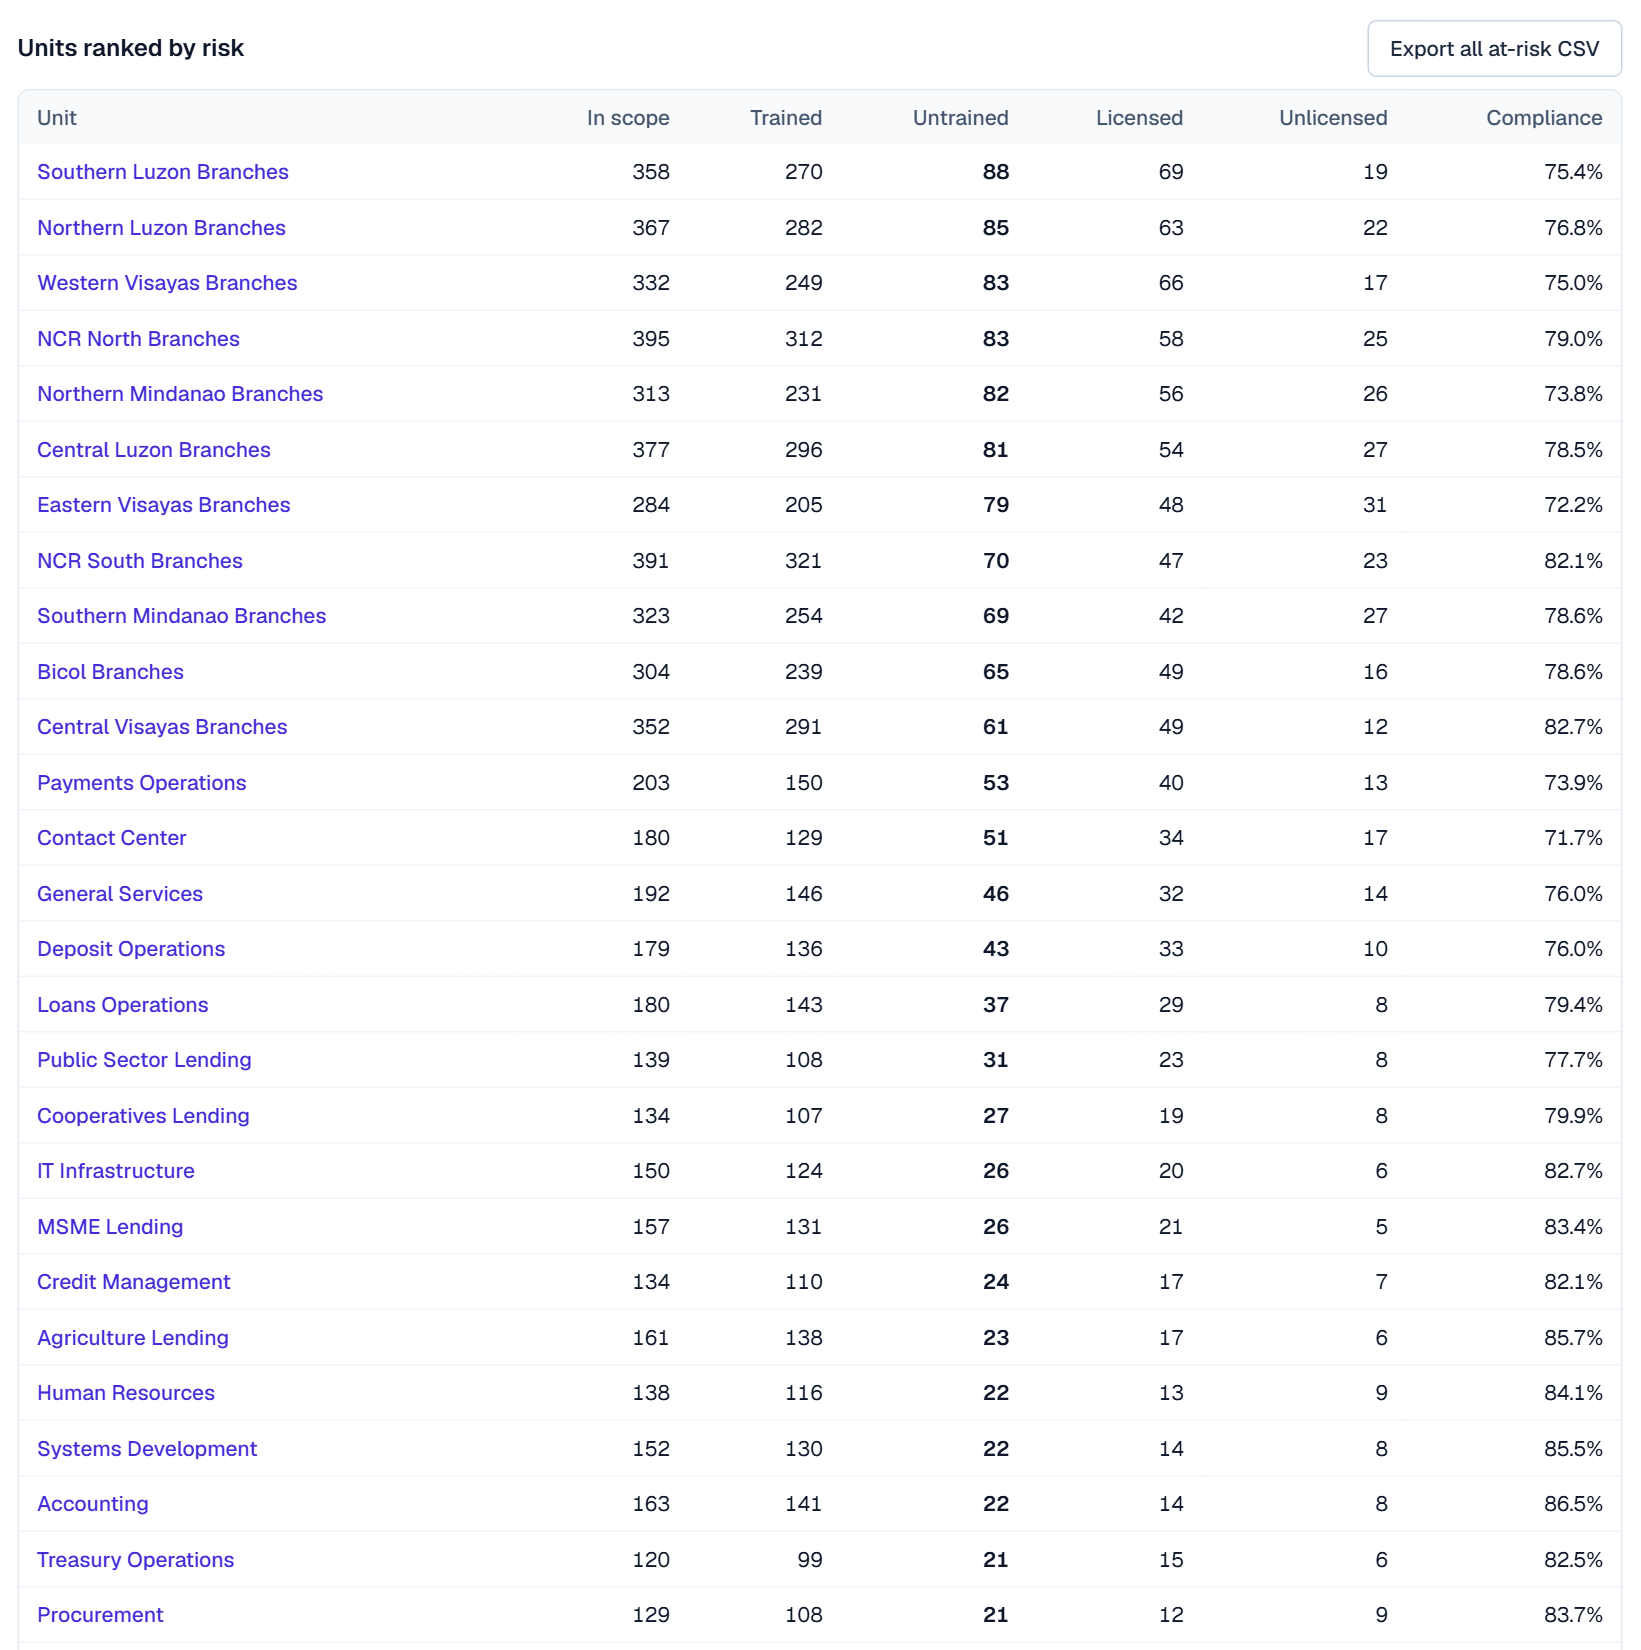
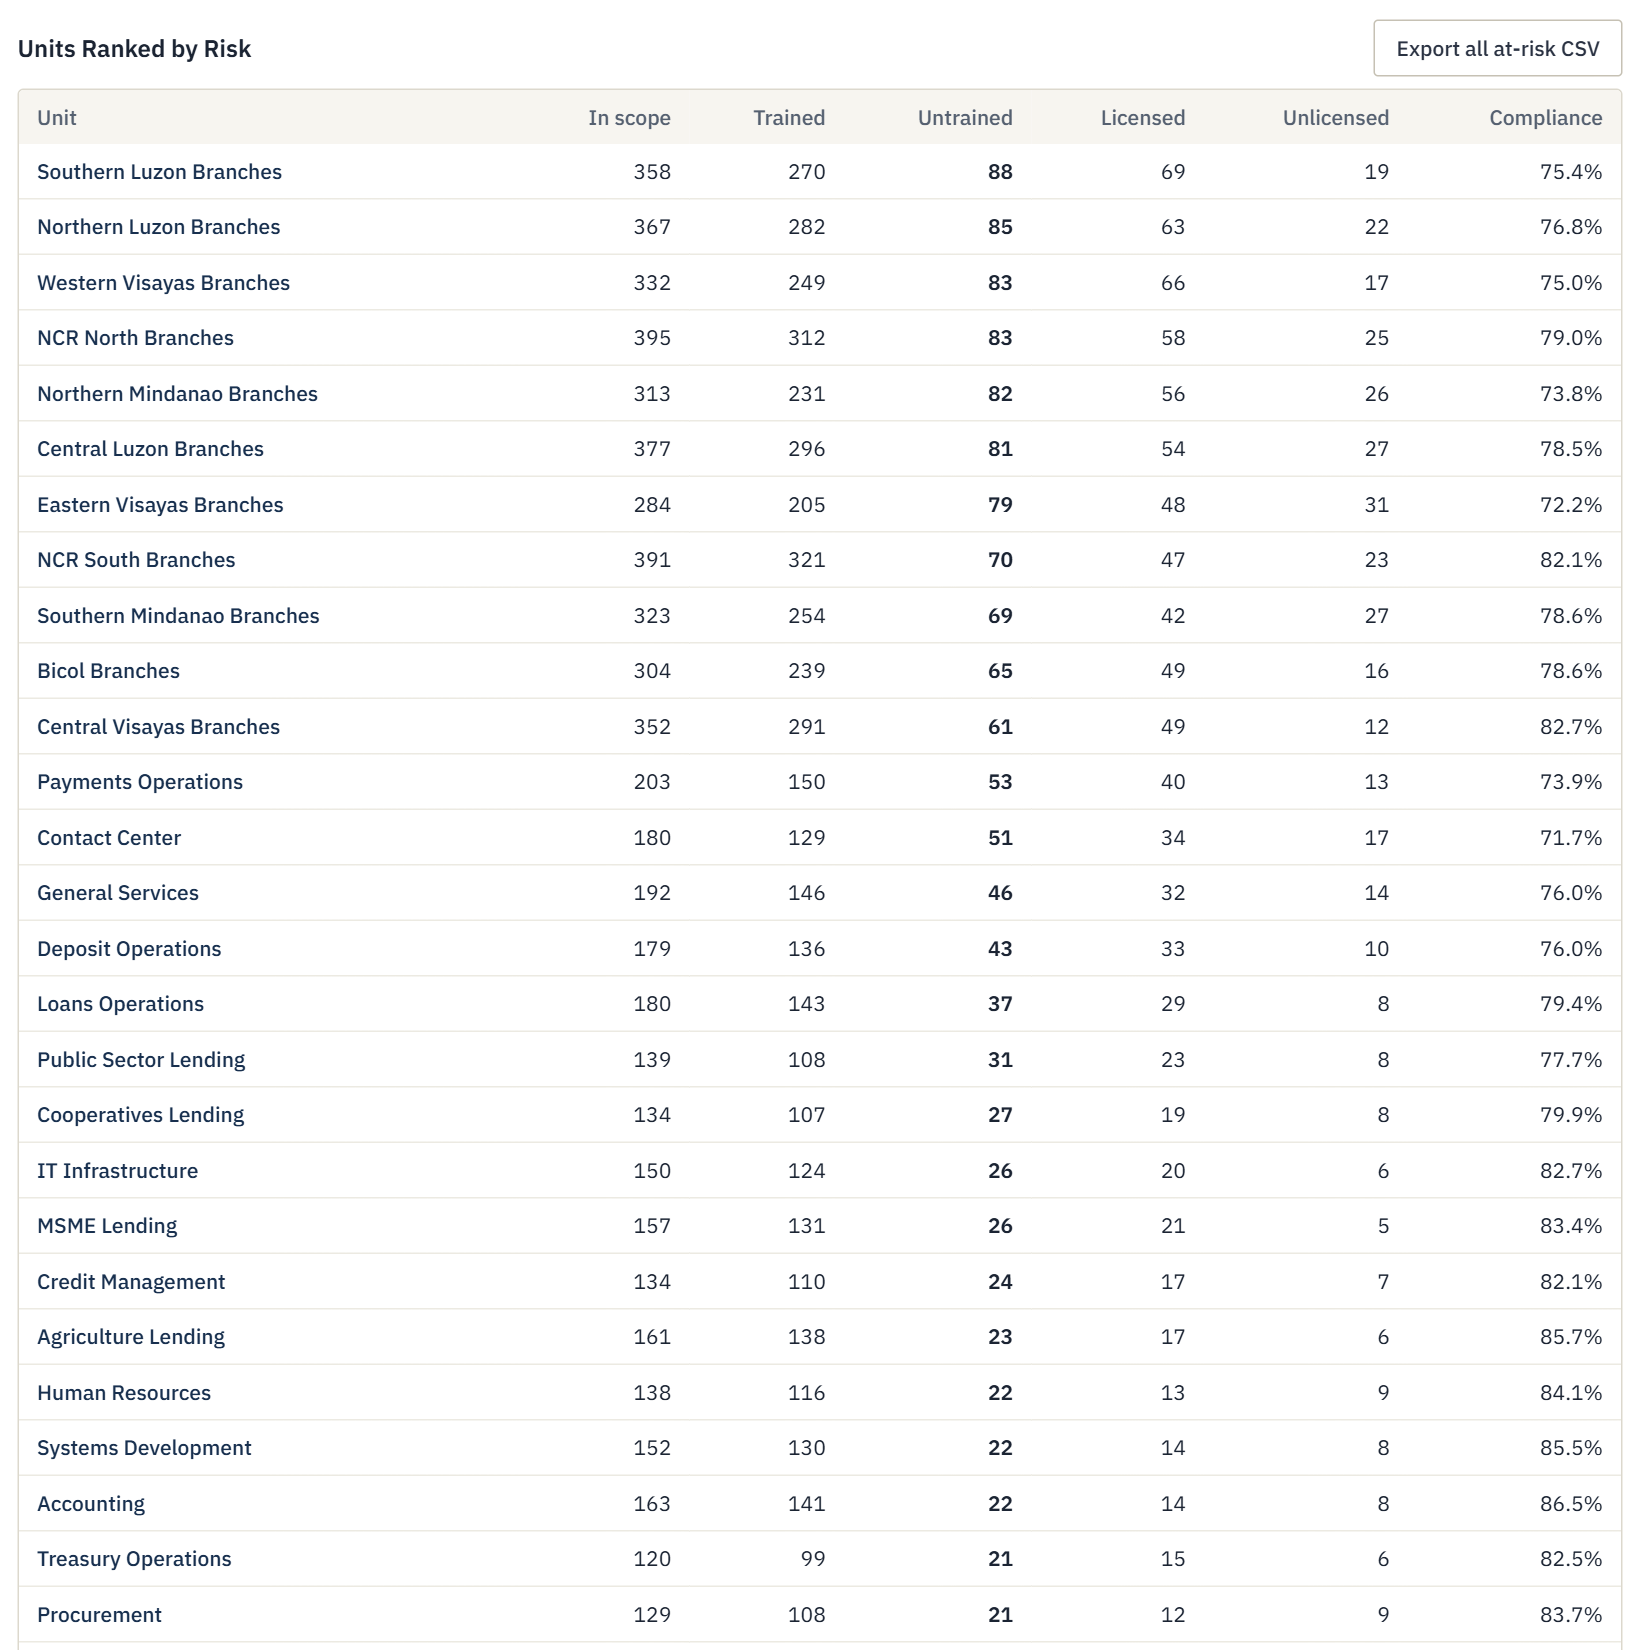
docs: retake screenshots in the Civic Ledger look, update README, script, architecture
13 screenshots (new 00-overview with the navy header) captured with
reduced motion so charts render fully. README shows the overview and
The Money, uses the new Title Case headings, and the test count is now
373 in 32 files. The demo script adds a The Money beat, the optional
calendar what-if, and a Groq status check. Architecture notes record
the palette remap and the money summary module.

diff --git a/docs/demo-script.md b/docs/demo-script.md
@@ -4,30 +4,32 @@ Live site: https://training-compliance-radar.vercel.app (open it in an **incogni
 
 ## Before you record (5 minutes)
 
-- [ ] `GOOGLE_GENERATIVE_AI_API_KEY` is set in Vercel and the project was redeployed (otherwise AI buttons show "not configured").
+- [ ] `https://training-compliance-radar.vercel.app/api/status` shows `"provider":"groq"` with the two Gemini backups (it makes no AI call). If it says `configured: false`, a key is missing in Vercel.
 - [ ] **Go easy on dry runs.** The AI runs on Groq's free plan first (about 1,000 requests a day, but only 8,000 tokens a minute), with Gemini (20 requests a day per model) as backup. Each AI click uses 1–2 requests. A couple of dry runs are fine; leave about a minute between AI clicks so the per-minute limit does not push you onto the backup.
-- [ ] Browser zoom 100%, window wide enough to show the chart, notifications off.
+- [ ] Browser zoom 110–125%, window wide enough to show two panels side by side, notifications off.
 - [ ] Have `docs/validation.md` or a one-line problem statement ready if you want a title card.
 
 ## Script
 
 | Time | On screen | Say (suggested wording) |
 |---|---|---|
-| **0:00–0:15** | Landing page, header privacy note | "Every year, L&D teams find out who missed the one-training-per-year rule in Q4, when it is too late. Training Compliance Radar finds them months earlier. Note the banner: your files never leave this browser." |
-| **0:15–0:30** | Click **Load sample data**; step 1 shows four files loaded | "I'll use synthetic data: 12,000 employees in 50 departments, a 26-course catalog and a 48-run training calendar. You can also upload your own CSVs, and errors are row-numbered." |
-| **0:30–0:45** | Step 2 Rules (as-of Sep 30), then KPI cards | "Rules are configurable: as-of date, late-hire cutoff, covered types, minimum hours. Only regular staff can be at risk. As of Sep 30, 8,846 are in scope: 7,155 trained (80.9%), **1,691 untrained**, 3 months left. The targets table shows we are 365 people short of the 85% target." |
-| **0:45–1:00** | Bar chart, then ranked table; hover the cost and balance cards | "Only units with untrained staff are listed, ranked by risk. Southern Luzon Branches leads with 88. Cost to close is ₱332,000, the cheapest mix of runs and LinkedIn. The outstanding balance is ₱27.48M of the ₱100M allocation (hover shows the exact peso), and after promised runs, nominations and subscriptions about 7% is left by year end." |
-| **1:00–1:12** | Click the **Training calendar** tab; month grid, click one run | "The calendar tab shows all 48 runs for the year: 36 external to 12 in-house, exactly 3 to 1, ₱12.3M at expected enrolment. Each run shows its cost, seats and whether the plan needs it: only 3 of the 17 upcoming runs are needed, because the rest cost more than a paid LinkedIn course." |
-| **1:12–1:22** | Back to **Radar**; back-test card | "Does early flagging work? At Sep 30 we flag 1,691 people and catch all 891 who end the year untrained. The rest got trained: exactly the group a nudge can change." |
-| **1:22–1:34** | Click **Southern Luzon Branches**; at-risk list; **Export at-risk CSV** | "Click a unit for its at-risk list, and export it to CSV." |
-| **1:34–1:52** | **Recommend courses**, then **Generate memo** | "AI recommends courses only from my catalog, every ID is checked. The memo is drafted from counts alone; the names are merged in my browser, so the AI never sees them." |
-| **1:52–2:00** | **Executive summary**, then footer | "One click gives a department head a summary. The code computes; the AI communicates. Source and tests are on GitHub." |
+| **0:00–0:15** | Landing page: navy header, privacy strip | "Every year, L&D teams find out who missed the one-training-per-year rule in Q4, when it is too late. Training Compliance Radar finds them months earlier. Note the strip under the header: your files never leave this browser." |
+| **0:15–0:28** | Click **Load sample data**; step 1 shows four files loaded | "I'll use synthetic data: 12,000 employees in 50 departments, a 26-course catalog and a 48-run training calendar. You can also upload your own CSVs, and errors are row-numbered." |
+| **0:28–0:42** | Scroll past **Rules** (as-of Sep 30) to the KPI cards and **Training Targets** | "Rules are configurable: as-of date, late-hire cutoff, minimum hours. Only regular staff can be at risk. As of Sep 30, 8,846 are in scope: 7,155 trained, 80.9%, and **1,691 untrained**, with 3 months left. Training Targets shows we are 365 people short of the 85% target." |
+| **0:42–0:55** | **The Money** panel; hover the balance card | "The Money says it in one line: ₱72.52M of the ₱100M allocation is spent, ₱20.43M is already promised, so about ₱7.04M, 7%, is left at year end. Closing the gap costs ₱332,000, the cheapest mix of runs and LinkedIn." |
+| **0:55–1:05** | Bar chart, then **Units Ranked by Risk** | "Only units with untrained staff are listed, ranked by risk. Southern Luzon Branches leads with 88." |
+| **1:05–1:17** | **Training Calendar** tab; year grid; *optional:* **Edit calendar** → remove one planned run → point at the totals → **Reset all changes** | "The calendar shows all 48 runs: 36 external to 12 in-house, exactly 3 to 1. Only 3 of the 17 upcoming runs are needed. I can cancel a run as a what-if and every number recalculates; nothing is saved." |
+| **1:17–1:25** | Back to **Radar**; **Back-Test** card | "Does early flagging work? At Sep 30 we flag 1,691 people and catch all 891 who end the year untrained." |
+| **1:25–1:35** | Click **Southern Luzon Branches**; at-risk list; **Export at-risk CSV** | "Click a unit for its at-risk list, and export it to CSV." |
+| **1:35–1:52** | **Recommend courses**, then **Generate memo** | "AI recommends courses only from my catalog, and every ID is checked. The memo is drafted from counts alone; the names are merged in my browser, so the AI never sees them." |
+| **1:52–2:00** | **Executive Summary** (header), then the GitHub repo | "One click gives a department head a summary. The code computes; the AI communicates. Source, tests and CI are on GitHub." |
+
+Cut the optional calendar edit first if you run long.
 
 ## If something goes wrong
 
-- **"Template" memo or summary instead of an AI one:** the AI failed or the free daily quota is used up. The template is built from the same numbers and is labeled. Say so, then click Retry later or show your recording.
-
-- **"AI is not configured"** banner: the Vercel key is missing. Skip the AI steps, say "AI features need an API key; here is the output," and show a pre-recorded memo.
+- **"Template" memo, summary or course picks instead of AI ones:** the AI failed or the free quota is used up. The template is built from the same numbers and is labeled. Say so, then click Retry later or show your recording.
+- **"AI is not configured"** banner: a Vercel key is missing. Skip the AI steps, say "AI features need an API key; here is the output," and show a pre-recorded memo.
 - **429 "Too many AI requests":** wait a minute. Limit is 10 per minute per IP.
 - **A slow AI call:** keep talking over the spinner; calls time out at 40 seconds and offer Retry.
 - **Warning "figures could not be checked":** that is the numeric guardrail working. Say so, click Retry.

diff --git a/README.md b/README.md
@@ -16,22 +16,25 @@ Training Compliance Radar answers one question early: **who is still untrained, 
 
 All screens use the built-in synthetic sample (12,000 fictional employees). More in [`docs/screenshots/`](docs/screenshots/).
 
-**Dashboard: trained vs untrained, targets and balance**
-![Dashboard with KPI cards and training targets](docs/screenshots/01-dashboard.png)
+**Overview: the navy header, the two tabs and the four steps**
+![Header with the app name, the Radar and Training Calendar tabs, and the Data step with the sample loaded](docs/screenshots/00-overview.png)
 
-**Budget burn-down and where the budget goes**
-![Budget burn-down, spend vs trained, and projected year-end balance](docs/screenshots/02-budget.png)
+**Dashboard: trained vs untrained, Training Targets and The Money**
+![Dashboard with KPI cards, training targets, target vs. actual chart and The Money panel](docs/screenshots/01-dashboard.png)
 
-**Training calendar: course timeline**
+**Budget Burn-Down and Where the Budget Goes**
+![Budget burn-down charts, spend vs trained, and the projected year-end balance](docs/screenshots/02-budget.png)
+
+**Training Calendar: Course Timeline**
 ![Course timeline with held, planned and not-needed runs by month](docs/screenshots/10-calendar-timeline.png)
 
 **What-if: one run removed, every number recalculated**
 ![Edit mode with a removed run and the recalculated calendar summary](docs/screenshots/12-calendar-what-if.png)
 
-**Back-test: would early flags have predicted year-end gaps?**
+**Back-Test: would early flags have predicted year-end gaps?**
 ![Back-test recall and precision at Jun 30 and Sep 30](docs/screenshots/07-backtest.png)
 
-**Unit panel: at-risk staff for one department (names stay in the browser)**
+**Unit Panel: at-risk staff for one department (names stay in the browser)**
 ![Unit panel for Southern Luzon Branches with the at-risk list](docs/screenshots/08-unit-panel.png)
 
 > **[CHRIS: add the two AI screenshots]** Save `13-memo.png` (a generated memo) and `14-executive-summary.png` in `docs/screenshots/` and add them here.
@@ -44,7 +47,8 @@ All screens use the built-in synthetic sample (12,000 fictional employees). More
 - **Risk dashboard**: trained vs untrained, the next target, months left, cost to close, a bar chart and a ranked table of units that still have untrained staff.
 - **Training targets**: 25/50/85/100% of in-scope staff trained by Mar 31, Jun 30, Sep 30 and Nov 30 (editable), shown as met, missed or upcoming with the people still needed.
 - **Slicers**: trained vs untrained by pay-grade band (Rank and File, Officers, Senior Officers), pay grade, department, group and sector, alone or combined (optional roster columns `pay_grade`, `group`, `sector`).
-- **Budget burn-down**: the annual allocation against money spent by month, people trained, and spend per trained person, with charts and a Print report button.
+- **The Money**: one panel that says, in a sentence, a bar and a three-line table, how much of the allocation is spent, how much is already promised, and what is projected to be left at year end.
+- **Budget Burn-Down**: the annual allocation against money spent by month, people trained, and spend per trained person, with charts and a Print report button.
 - **Realistic balance**: spend so far plus everything already promised, namely every calendar run still to come (in-house runs priced from speaker honoraria and snacks, external trainings at their fee per participant, external : in-house 3 : 1), expected external nominations outside the calendar, and annual subscriptions (Mentimeter, Kahoot!, Canva, Adobe), giving a projected year-end balance. Subscriptions and nominations are editable in Rules.
 - **Training calendar tab**, with an **Edit calendar** what-if mode (add, edit, duplicate and remove runs; undo, restore and reset; every number recomputes; changes stay in the browser and are lost on reload, so export the CSV to keep them): every planned run for the year in four views (month grid, list, a course-by-month timeline, and a by-quarter list of trainings still available with estimated seats open), each run with its state (held, planned, not needed, after Dec 14), cost at expected enrolment, seats, the external : in-house mix against 3 : 1, cost by month, the sector windows for the recommended course, alerts, CSV export and print.
 - **Recommended-course windows and a plan** (optional catalog flag `recommended` and `calendar.csv`): one staggered monthly window per sector for the annual course (e.g. AMLA), who completed or missed it, and a deterministic plan for the rest: licensed staff on LinkedIn at no extra cost, unlicensed staff in calendar runs above their minimum size or on the paid LinkedIn fee, no in-person runs after Dec 14.
@@ -53,6 +57,7 @@ All screens use the built-in synthetic sample (12,000 fictional employees). More
 - **Works without AI, too:** if an AI call fails or the free quota runs out, memos and the executive summary fall back to a clearly labeled template draft built from the same numbers.
 - **Executive summary** for a department head: an AI-written narrative plus four charts (status breakdown, highest-risk units, back-test, cost vs budget) drawn from the engine, so they stay accurate and still appear if the AI is unavailable.
 - **Privacy by design**: employee names and IDs never leave the browser.
+- **Civic Ledger look**: a navy header, warm paper background, ruled panels, IBM Plex type with monospaced figures, and Title Case headings, chosen from five design options.
 
 ## How it works
 
@@ -97,7 +102,7 @@ Switching provider is one variable (`AI_PROVIDER=groq` or `anthropic`) plus its 
 
 ## Tests
 
-`npm test` runs **234 tests in 18 files** (Vitest). They cover:
+`npm test` runs **373 tests in 32 files** (Vitest). They cover:
 
 - every compliance rule and their order, ranking, rounding, back-test and cost-to-close;
 - CSV validation (missing columns, duplicates, impossible dates, limits);

diff --git a/docs/architecture.md b/docs/architecture.md
@@ -34,6 +34,7 @@ flowchart LR
 | Layer | Choice | Why |
 |---|---|---|
 | Frontend | Next.js (App Router) + TypeScript (strict) + Tailwind CSS | Recommended stack; first-class Vercel support |
+| Look (spec v2.9) | "Civic Ledger": the Tailwind palette is remapped once in `app/globals.css` (indigo → navy `#1E3A5F`, slate → warm paper greys, small radius, no shadows); IBM Plex Sans and Mono via `next/font` | One change restyles every screen consistently; components keep their classes |
 | Charts | Recharts | Simple React charts |
 | CSV | papaparse (client-side) | Keeps raw employee data in the browser |
 | Validation | zod (client + server) | One schema source for CSV rows and API payloads |
@@ -51,7 +52,7 @@ flowchart LR
 3. Server validates, rate-limits, calls the LLM with a zod output schema → `{ subject, body }` where body contains `{{EMPLOYEE_LIST}}`.
 4. Client replaces `{{EMPLOYEE_LIST}}` with the 12 names locally; user copies or exports.
 
-## Budget and training calendar (spec v2.0–v2.8)
+## Budget and training calendar (spec v2.0–v2.9)
 All of this runs in the browser, in pure functions under `lib/engine` and `lib/analysis`, with unit tests. No AI is involved and nothing is sent to a server.
 
 | Feature | Module | What it computes |
@@ -62,6 +63,7 @@ All of this runs in the browser, in pure functions under `lib/engine` and `lib/a
 | Calendar costing | `lib/analysis/costing.ts` | In-house runs: ₱500 per speaker per 2 hours plus snacks (₱75 per 4 hours, ₱150 cap); external runs: fee per participant; 3 : 1 external to in-house mix |
 | Plan and cost to close | `lib/analysis/plan.ts` | Licensed staff close through LinkedIn at ₱0; unlicensed staff fill future runs cheapest first, then a paid LinkedIn course; runs below minimum enrolment or after Dec 14 are not held |
 | Budget burn-down | `lib/analysis/budget.ts`, `commitments.ts` | Spent by month (attendance costs plus January subscriptions), commitments (future runs, nominations, LinkedIn fees), outstanding and projected year-end balance |
+| The Money panel | `lib/analysis/money.ts`, `components/MoneyPanel.tsx` | Spent, promised (commitments plus any catalog estimate) and projected left, with shares of the allocation and bar widths that always fill; count and cost of calendar runs still to come |
 | Calendar tab | `lib/analysis/calendar-view.ts`, `calendar-timeline.ts` | Run states (completed, planned, standby, blocked after Dec 14), cost at expected enrolment, monthly chart, alerts; year grid, list, course timeline and by-quarter views |
 | What-if editing | `lib/analysis/calendar-edit.ts`, `components/CalendarEditor.tsx` | Add, edit, move, duplicate or remove runs with undo, restore and reset. The app analyzes `applyCalendarEdits(calendar, edits)`, so the dashboard, plan, budget and calendar views all recalculate. Edits are validated with the same schema as an uploaded calendar |
 
